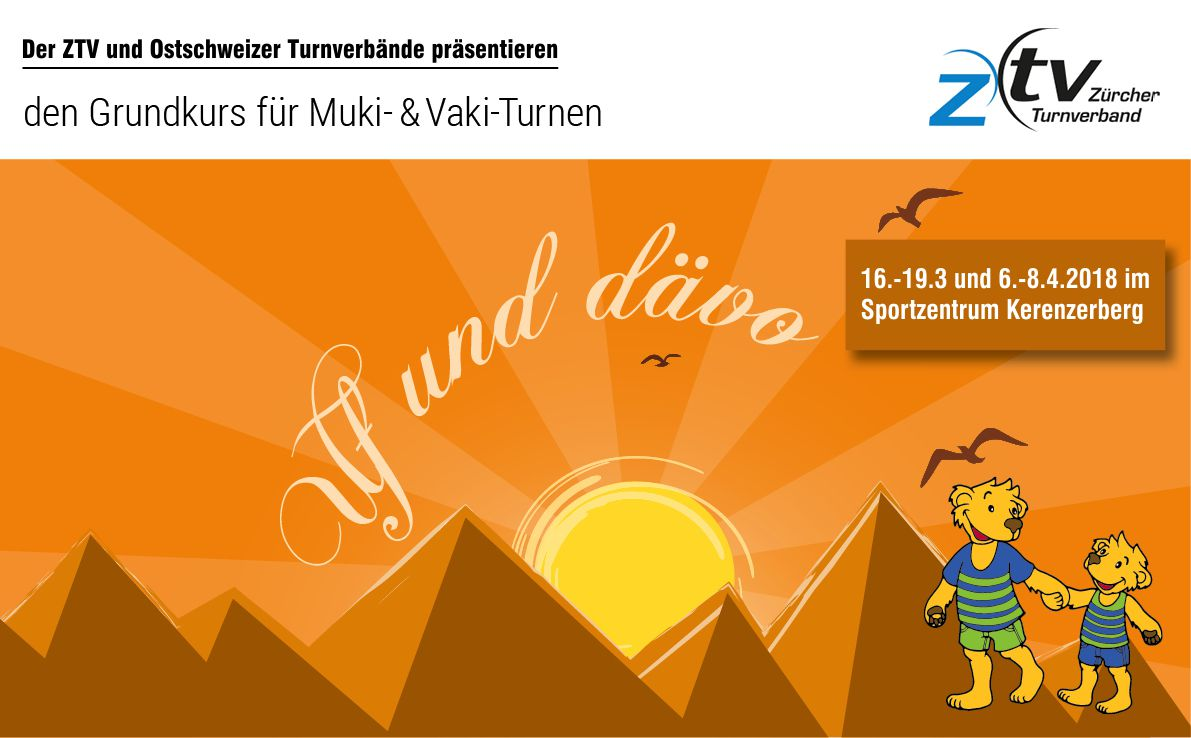
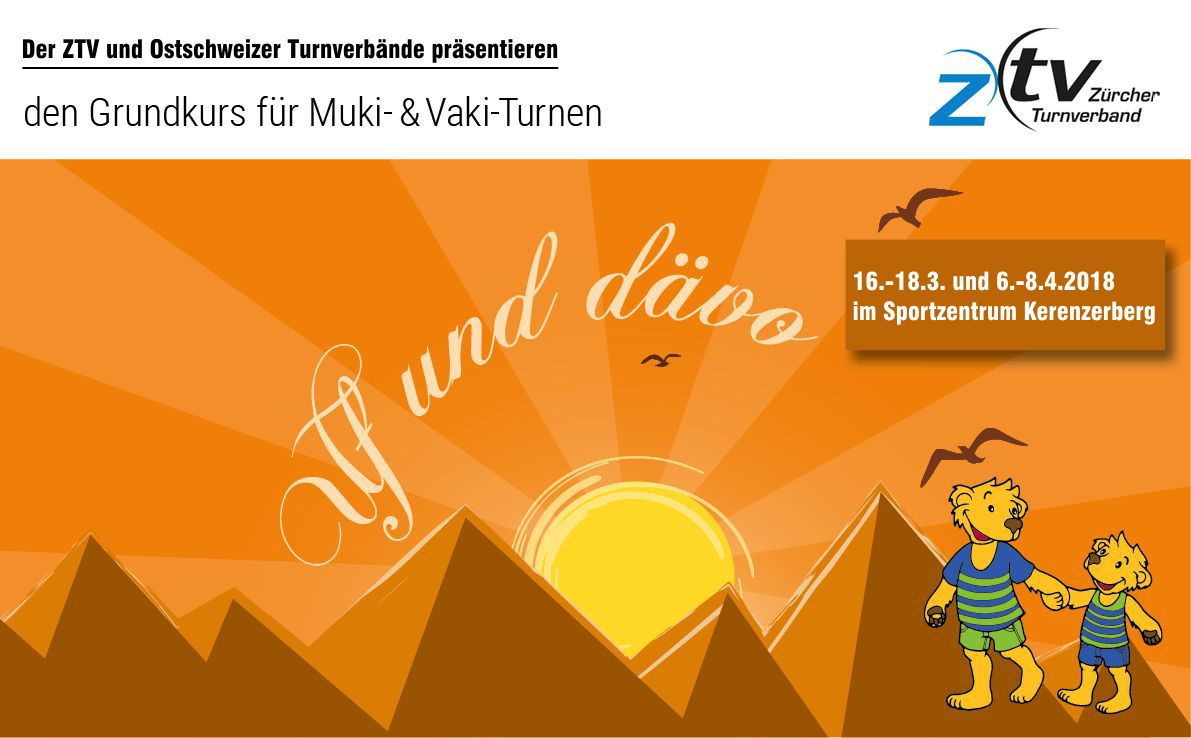
Update Bild

Changed region(s): [[0.7145, 0.3428, 0.9941, 0.4363]]

diff --git a/gk.php b/gk.php
@@ -51,18 +51,18 @@
     </style>
 </head>
 <body>
-<div class="container">
+<div class="container" itemscope itemtype="http://schema.org/Event">
     <div class="header clearfix">
 
         <h3 class="text-muted">Kursnummer 18235.40</h3>
     </div>
 
     <div class="jumbotron">
-        <h1>Grundkurs, Leiter 1 im Elki-, Vaki- und Muki-Turnen</h1>
+        <h1 itemprop="name">Grundkurs, Leiter 1 im Elki-, Vaki- und Muki-Turnen</h1>
         <p class="lead">Theorie- und Praxis-Ausbildung gemäss dem offiziellen Lehrgang des STV für Muki-Turnen.</p>
-        <p><img src="gk-assets/Mailkopf_GK-Kerenzerberg_zh.jpg" style="width:100%;"/></p>
+        <p><img itemprop="image" src="gk-assets/GK-Kerenzerberg18_210x130-page-001.jpg" style="width:100%;"/></p>
         <p><a class="btn btn-lg btn-success"
-              href="http://www.ztv.ch/site/index.php?option=com_chronoforms&chronoform=kurs_anmeldung_17235_40"
+              href="http://www.ztv.ch/site/index.php?option=com_chronoforms&chronoform=kurs_anmeldung_18235_40"
               role="button">Anmelden</a></p>
     </div>
 
@@ -76,18 +76,19 @@
                 verwendet</p>
 
             <h3>Kursziel und -inhalt</h3>
-            <p>Die Teilnehmerinnen und Teilnehmer werden für die Leitertätigkeit ausgebildet und motiviert. Nach dem
-                Kurs sind sie fähig, selbständig eine eigene Gruppe zu leiten.</p>
-            <p>Vermittelt werden insbesondere die Grundlagen zur Organisation einer Elki-Gruppe. Die Anwendung von
-                Unterlagen zur Lektionsvorbereitung wird geübt und methodische Kompetenzen mit vielen praktischen
-                Beispielen geschult. Informationen über den <a href="http://www.ztv.ch/">Zürcher Turnverband (ZTV)</a>, den <a href="http://grtv.ch/">Graubündner Turnverband (GRTV)</a>,
-                den <a href="http://www.tgtv.ch/">Thurgauer Turnverband (TGTV)</a>, den <a href="https://sgtv.ch/">St. Galler Turnverband (SGTV)</a>,
-                den <a href="http://shtv.ch/">Schaffhauser Turnverband (SHTV)</a> und
-                den <a href="http://www.stv-fsg.ch/">Schweizerischen Turnverband (STV)</a> und Spiel und Spass für die eigene Turnfertigkeit runden das
-                Programm ab.</p>
+            <div itemprop="description">
+                <p>Die Teilnehmerinnen und Teilnehmer werden für die Leitertätigkeit ausgebildet und motiviert. Nach dem
+                    Kurs sind sie fähig, selbständig eine eigene Gruppe zu leiten.</p>
+                <p>Vermittelt werden insbesondere die Grundlagen zur Organisation einer Elki-Gruppe. Die Anwendung von
+                    Unterlagen zur Lektionsvorbereitung wird geübt und methodische Kompetenzen mit vielen praktischen
+                    Beispielen geschult. Informationen über den <a href="http://www.stv-fsg.ch/">Schweizerischen Turnverband (STV)</a>,
+                    den <a href="http://www.ztv.ch/">Zürcher Turnverband (ZTV)</a>, die kooperierenden Turnverbände der Ostschweiz
+                    und Spiel und Spass für die eigene Turnfertigkeit runden das
+                    Programm ab.</p>
+            </div>
 
             <h3>Zielgruppe</h3>
-            <p>Offen für alle ab 18 Jahren mit Freude im Umgang mit Eltern und kleinen Kindern. Keine Kenntnisse erforderlich.</p>
+            <p itemprop="audience">Offen für alle ab 18 Jahren mit Freude im Umgang mit Eltern und kleinen Kindern. Keine Kenntnisse erforderlich.</p>
 
             <h3>Einige Inhalte aus dem Stundenplan</h3>
             <p>
@@ -105,6 +106,7 @@
 
         <div class="col-lg-6">
             <h3>Datum</h3>
+            <meta itemprop="startDate" content="2018-03-16T15:00">
             <p>
                 Teil 1: 16.03.-18.03.2018 | Freitag 15:00 – Sonntag 17:00 Uhr<br/>
                 Teil 2: 06.04.-08.04.2018 | Freitag 15:00 – Sonntag 16:00 Uhr
@@ -112,7 +114,10 @@
             <p>Der Kurs dauert insgesamt 6 Tage (2 x 3 Tage) und muss für die Anerkennung zum Muki Leiter 1 als Ganzes absolviert werden.</p>
 
             <h3>Ort und Anreise</h3>
-            <p><a href="http://www.szk.ch/">Sportzentrum Kerenzerberg</a>, Panoramastrasse 8, 8757 Filzbach</p>
+            <div itemprop="location" itemscope itemtype="http://schema.org/Place">
+                <p><a href="http://www.szk.ch/" itemprop="url"><span itemprop="name">Sportzentrum Kerenzerberg</span></a>, <span itemprop="address">Panoramastrasse 8, 8757 Filzbach</span></p>
+            </div>
+
 
             <h3>Kosten</h3>
             <p>Kursunterlagen inkl. Lehrmittel, Verpflegung und die Übernachtungen in den komfortablen Zimmern des
@@ -120,20 +125,22 @@
                 den Kurskosten inklusive. Einzelzimmer sind gegen einen kleinen Aufpreis erhältlich.
             </p>
             <ul>
-                <li>CHF 350 für Mitglieder des ZTV und der kooperierenden Verbände; <br>voraussichtlich GRTV, SGTV, SHTV, TGTV</li>
+                <li>CHF 350 für Mitglieder des ZTV
+                <li>CHF 350 für Mitglieder der kooperierenden Turnverbände: GRTV (voraussichtlich auch SGTV, SHTV, TGTV)</li>
                 <li>CHF 475 für übrige STV-Mitglieder</li>
                 <li>CHF 700.00 für Nichtmitglieder</li>
             </ul>
 
-            <h3>Kursleitung</h3>
+            <h3>Kursleitung und Organisation</h3>
+            <p>Organisation, Administration und Leitung duch den ZTV in Zusammenarbeit mit den kooperierenden Turnverbänden.</p>
             <p>Anita Jenny (ZTV), Anita Spengler (ZTV), Barbara Haueter (TGTV), Fabienne Reiser (SGTV), Marco Egli (ZTV), Miriam Wunderlin (SHTV), Nicole Schulz (GRTV). Priska Ochsner (SHTV)</p>
 
             <h3>Kontakt und Fragen</h3>
             <p>Marco Egli, <a href="mailto:eglinetwork@gmail.com">eglinetwork@gmail.com</a></p>
 
             <h3>Anmerkungen und Anmeldung</h3>
-            <!-- <p><a href="http://www.ztv.ch/site/index.php?option=com_chronoforms&chronoform=kurs_anmeldung_18235_40">Anmelden auf der Website des ZTV</a></p> -->
-            <p>Die Teilnehmer erhalten vor Kursbeginn weitere Informationen. Die Teilnehmerzahl ist beschränkt.</p>
+            <p><a href="http://www.ztv.ch/site/index.php?option=com_chronoforms&chronoform=kurs_anmeldung_18235_40">Anmelden auf der Website des ZTV</a></p>
+            <p>Die Teilnehmer erhalten vor Kursbeginn weitere Informationen. Die Teilnehmerzahl ist beschränkt. Anmeldeschluss ist am 23.02.2018.</p>
         </div>
     </div>
 

diff --git a/index.php b/index.php
@@ -65,9 +65,9 @@ $author = 'Marco Egli';
                         <article>
                             <h1>Personal Projects</h1>
                             <div class="banner blue">Play <a href="pairs">Photo Pairs</a> with beautiful pictures from Flickr</div>      
-							<div class="banner blue">What time do you need to solve the <a href="https://egli.io/tschutti">tschutti tschallenge</a>?</div>             							
+							<div class="banner blue">What time do you need to solve the <a href="tschutti">tschutti tschallenge</a>?</div>
+                            <div class="banner blue">Learn more about the basic course in <a href="gk">Muki-Turnen</a></div>
                             <div class="banner blue">Visit the most entertaining <a href="http://www.turnshow.ch/" target="_blank">Turnshow</a> in Switzerland</div>
-                            <div class="banner blue">Learn more about activities for <a href="http://familienvereine-bezirk-hinwil.ch/" target="_blank">families</a> around Zürich</div>
                         </article>
                     </div>
                     <div id="tabAbout">
